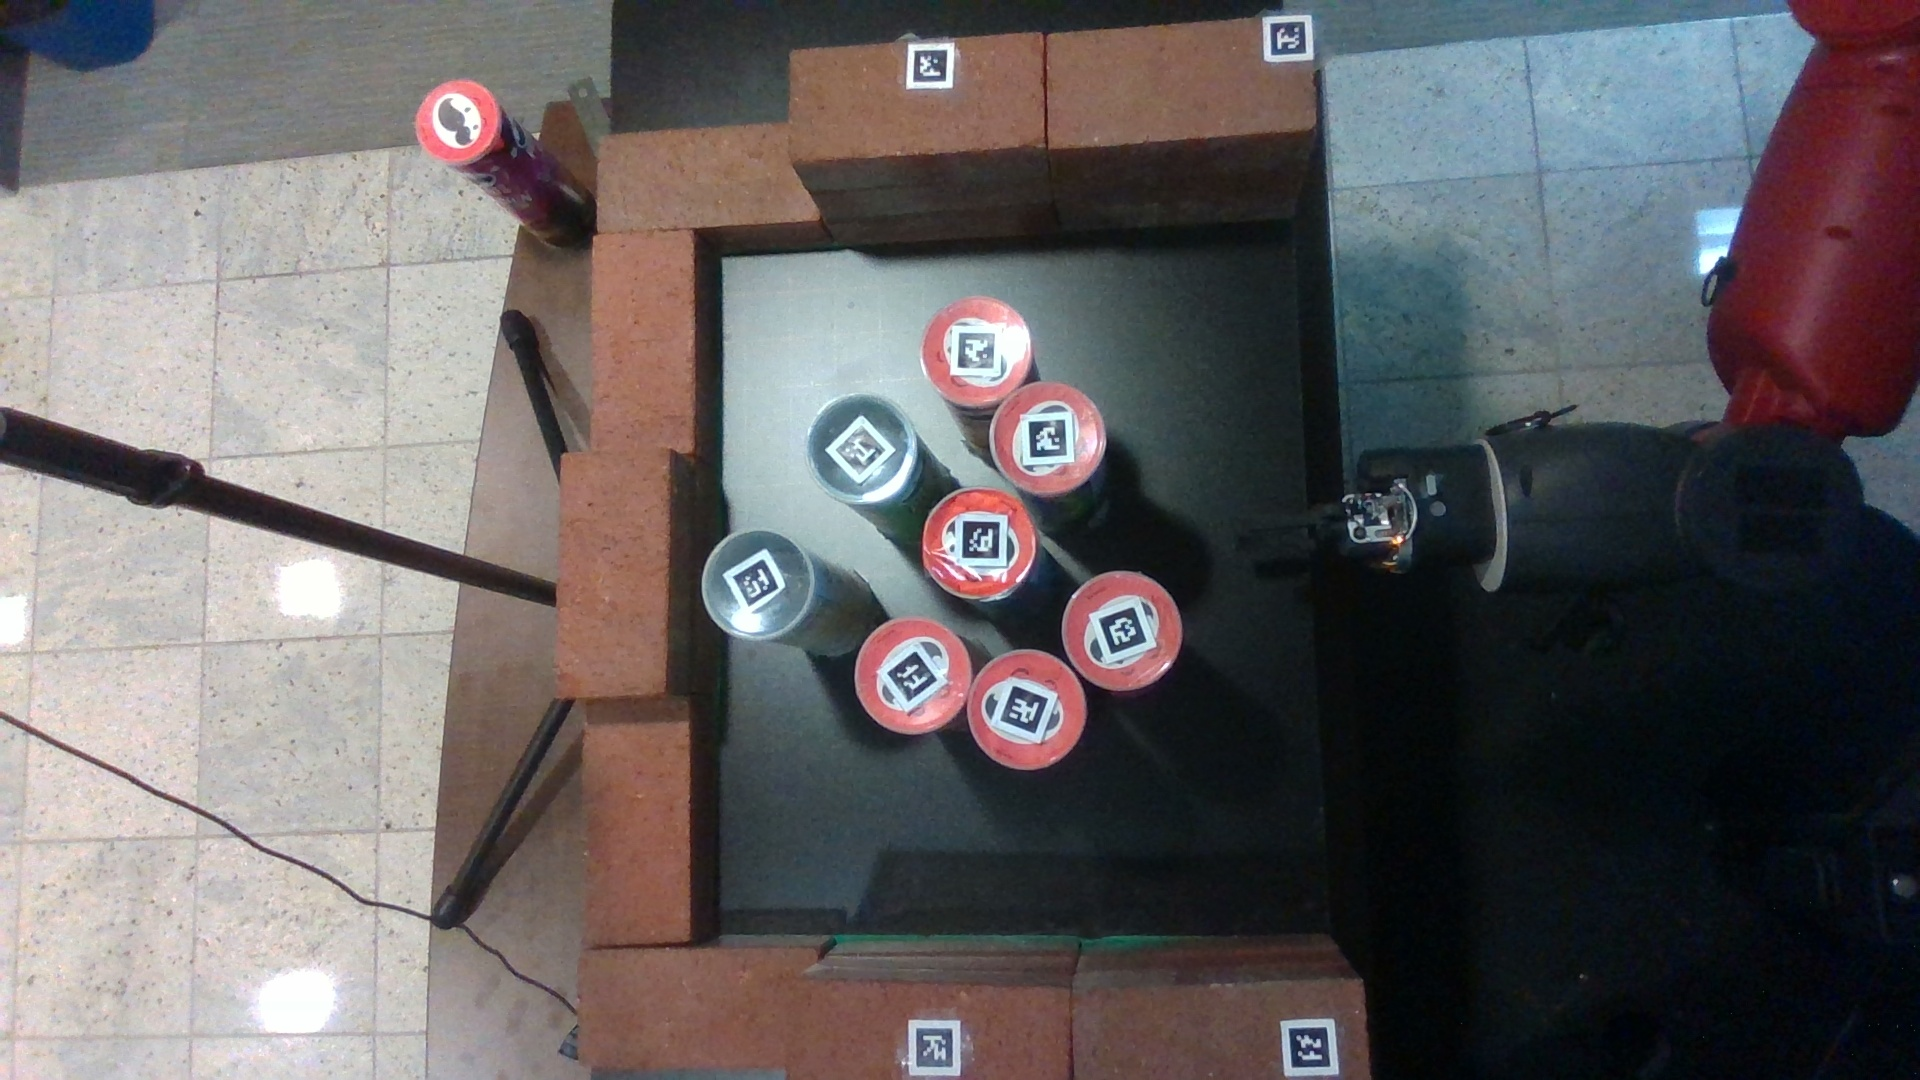
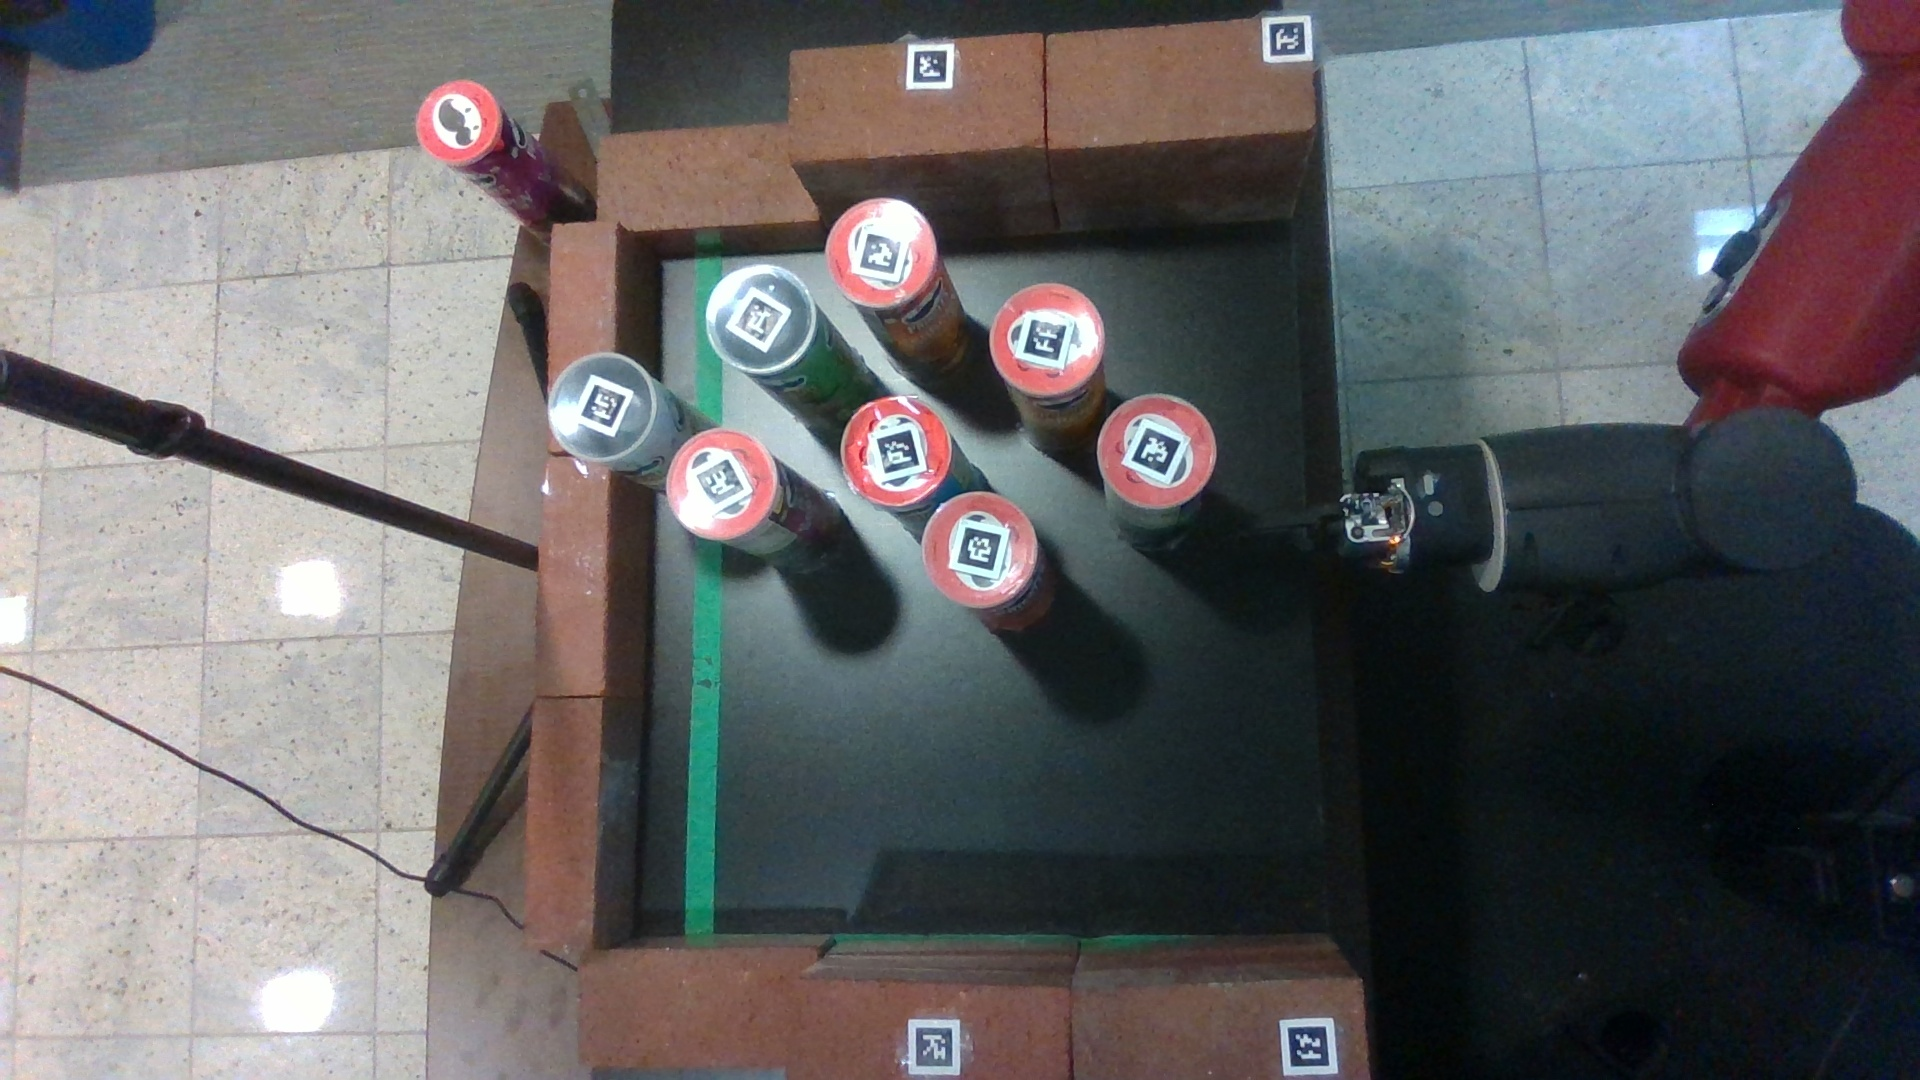
update

diff --git a/central_control.py b/central_control.py
@@ -183,7 +183,7 @@ def pipeline(type_of_plan, time_to_plan="unknown", scene="unknown", pause=False)
 
 if __name__ == '__main__':
 
-    scene = "s2" 
+    scene = "s4" 
     pause = True
     
     P = real_calibration()
